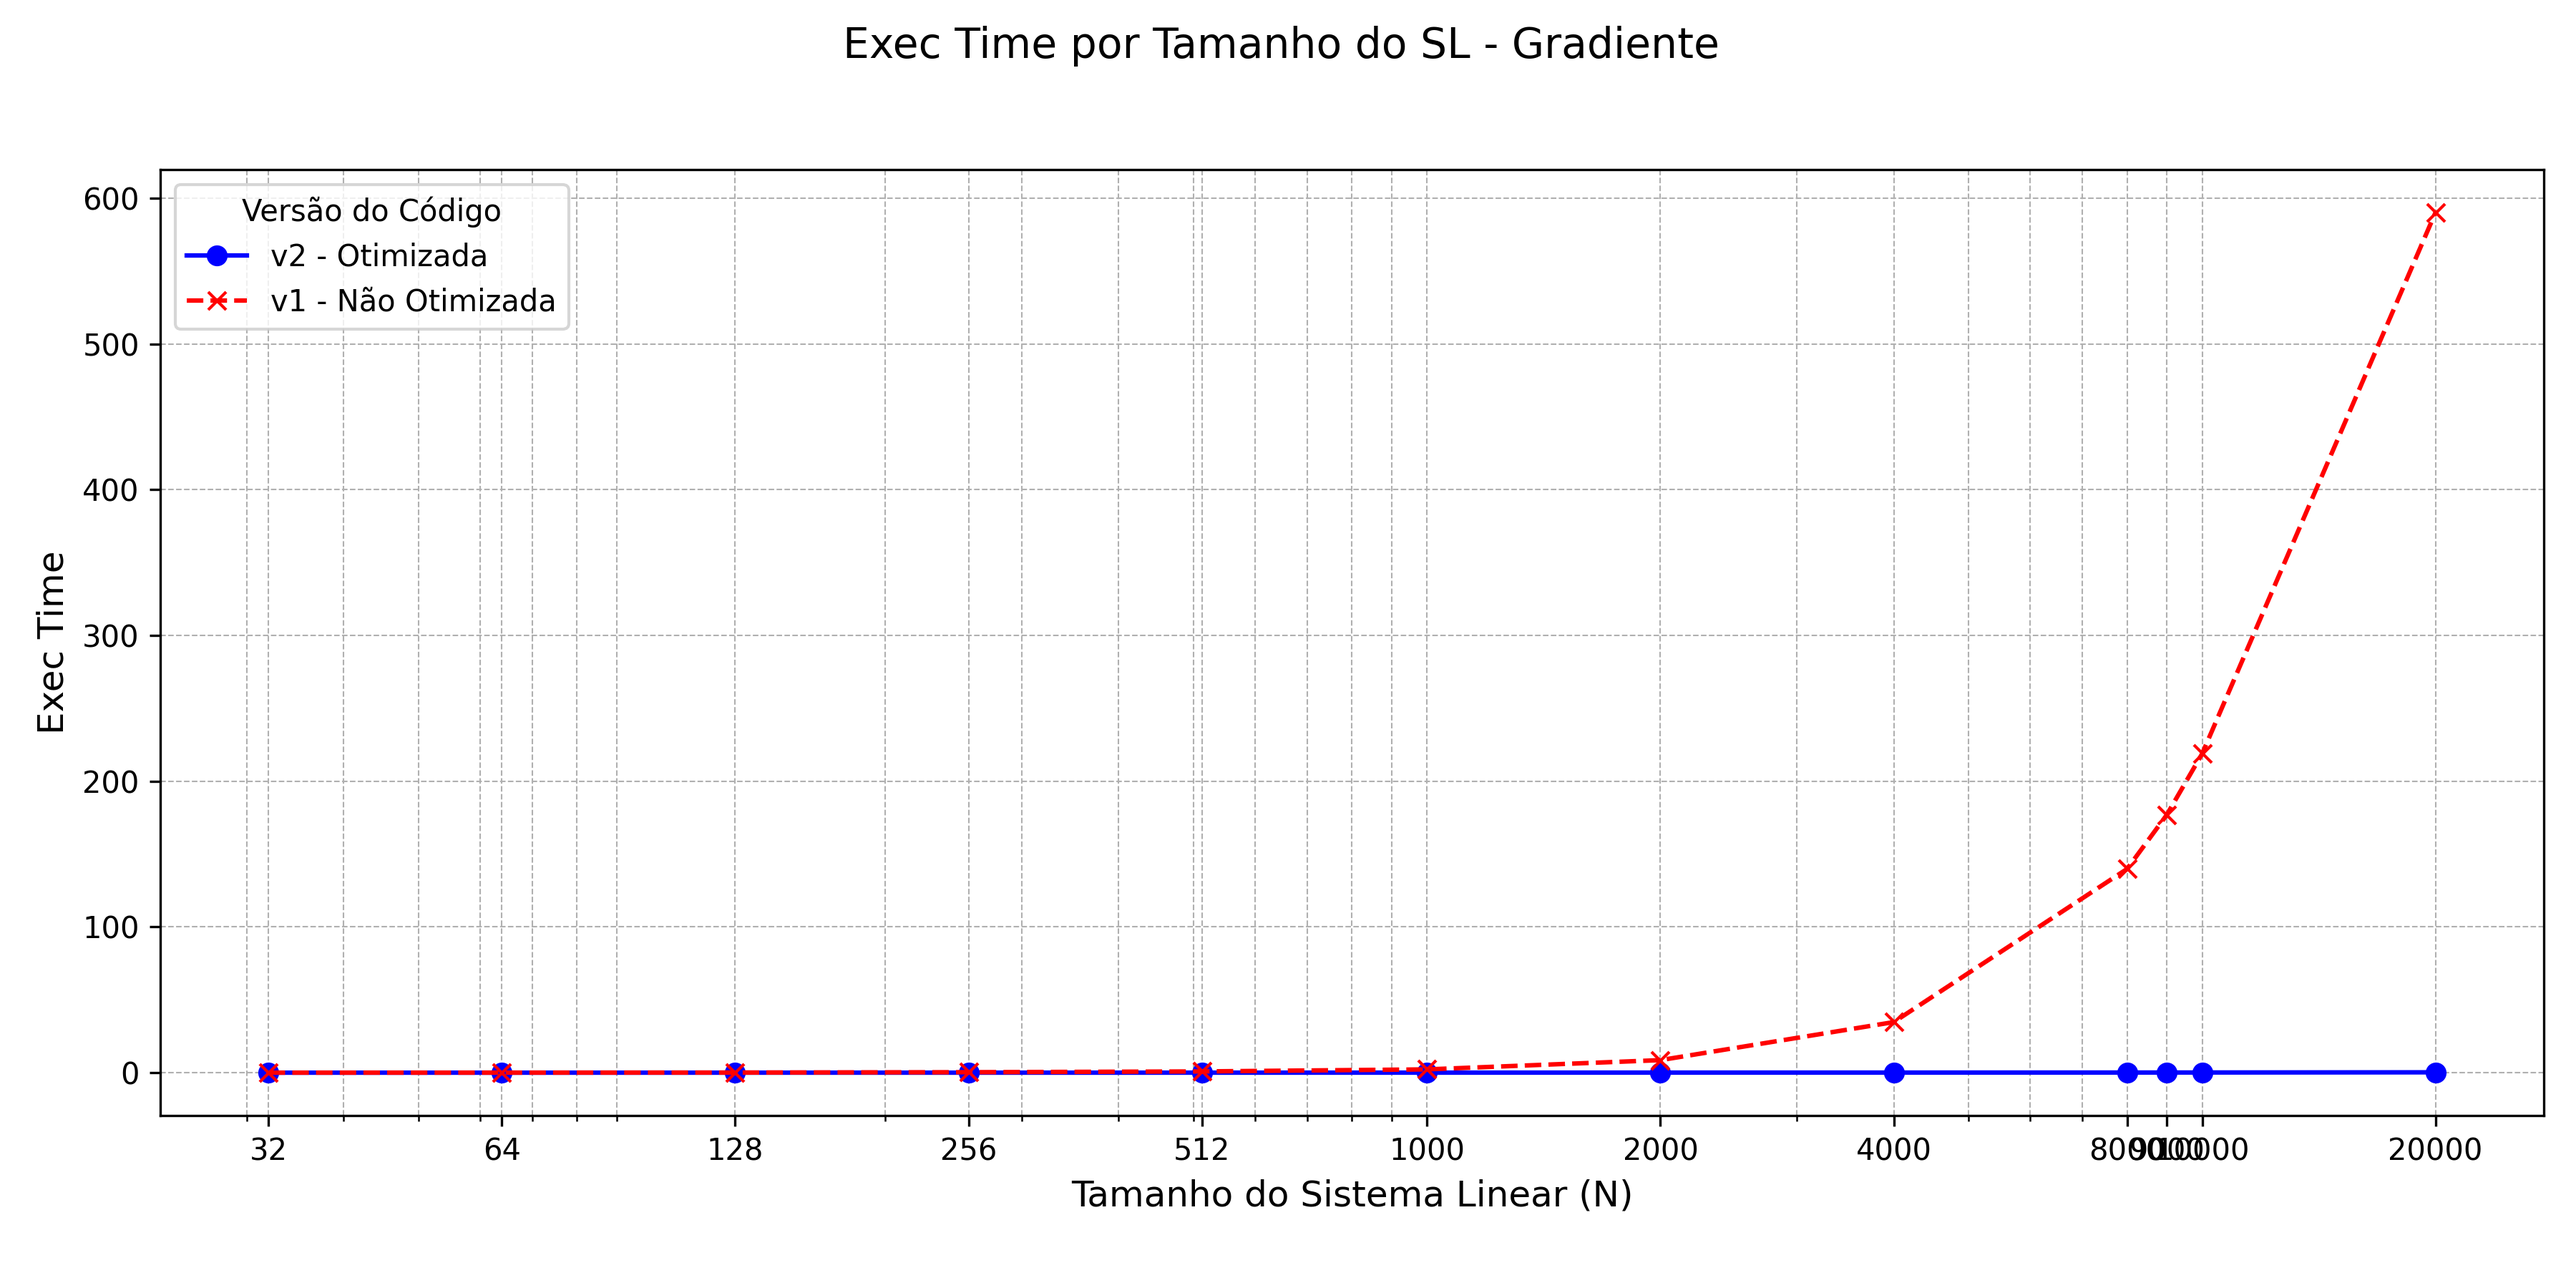
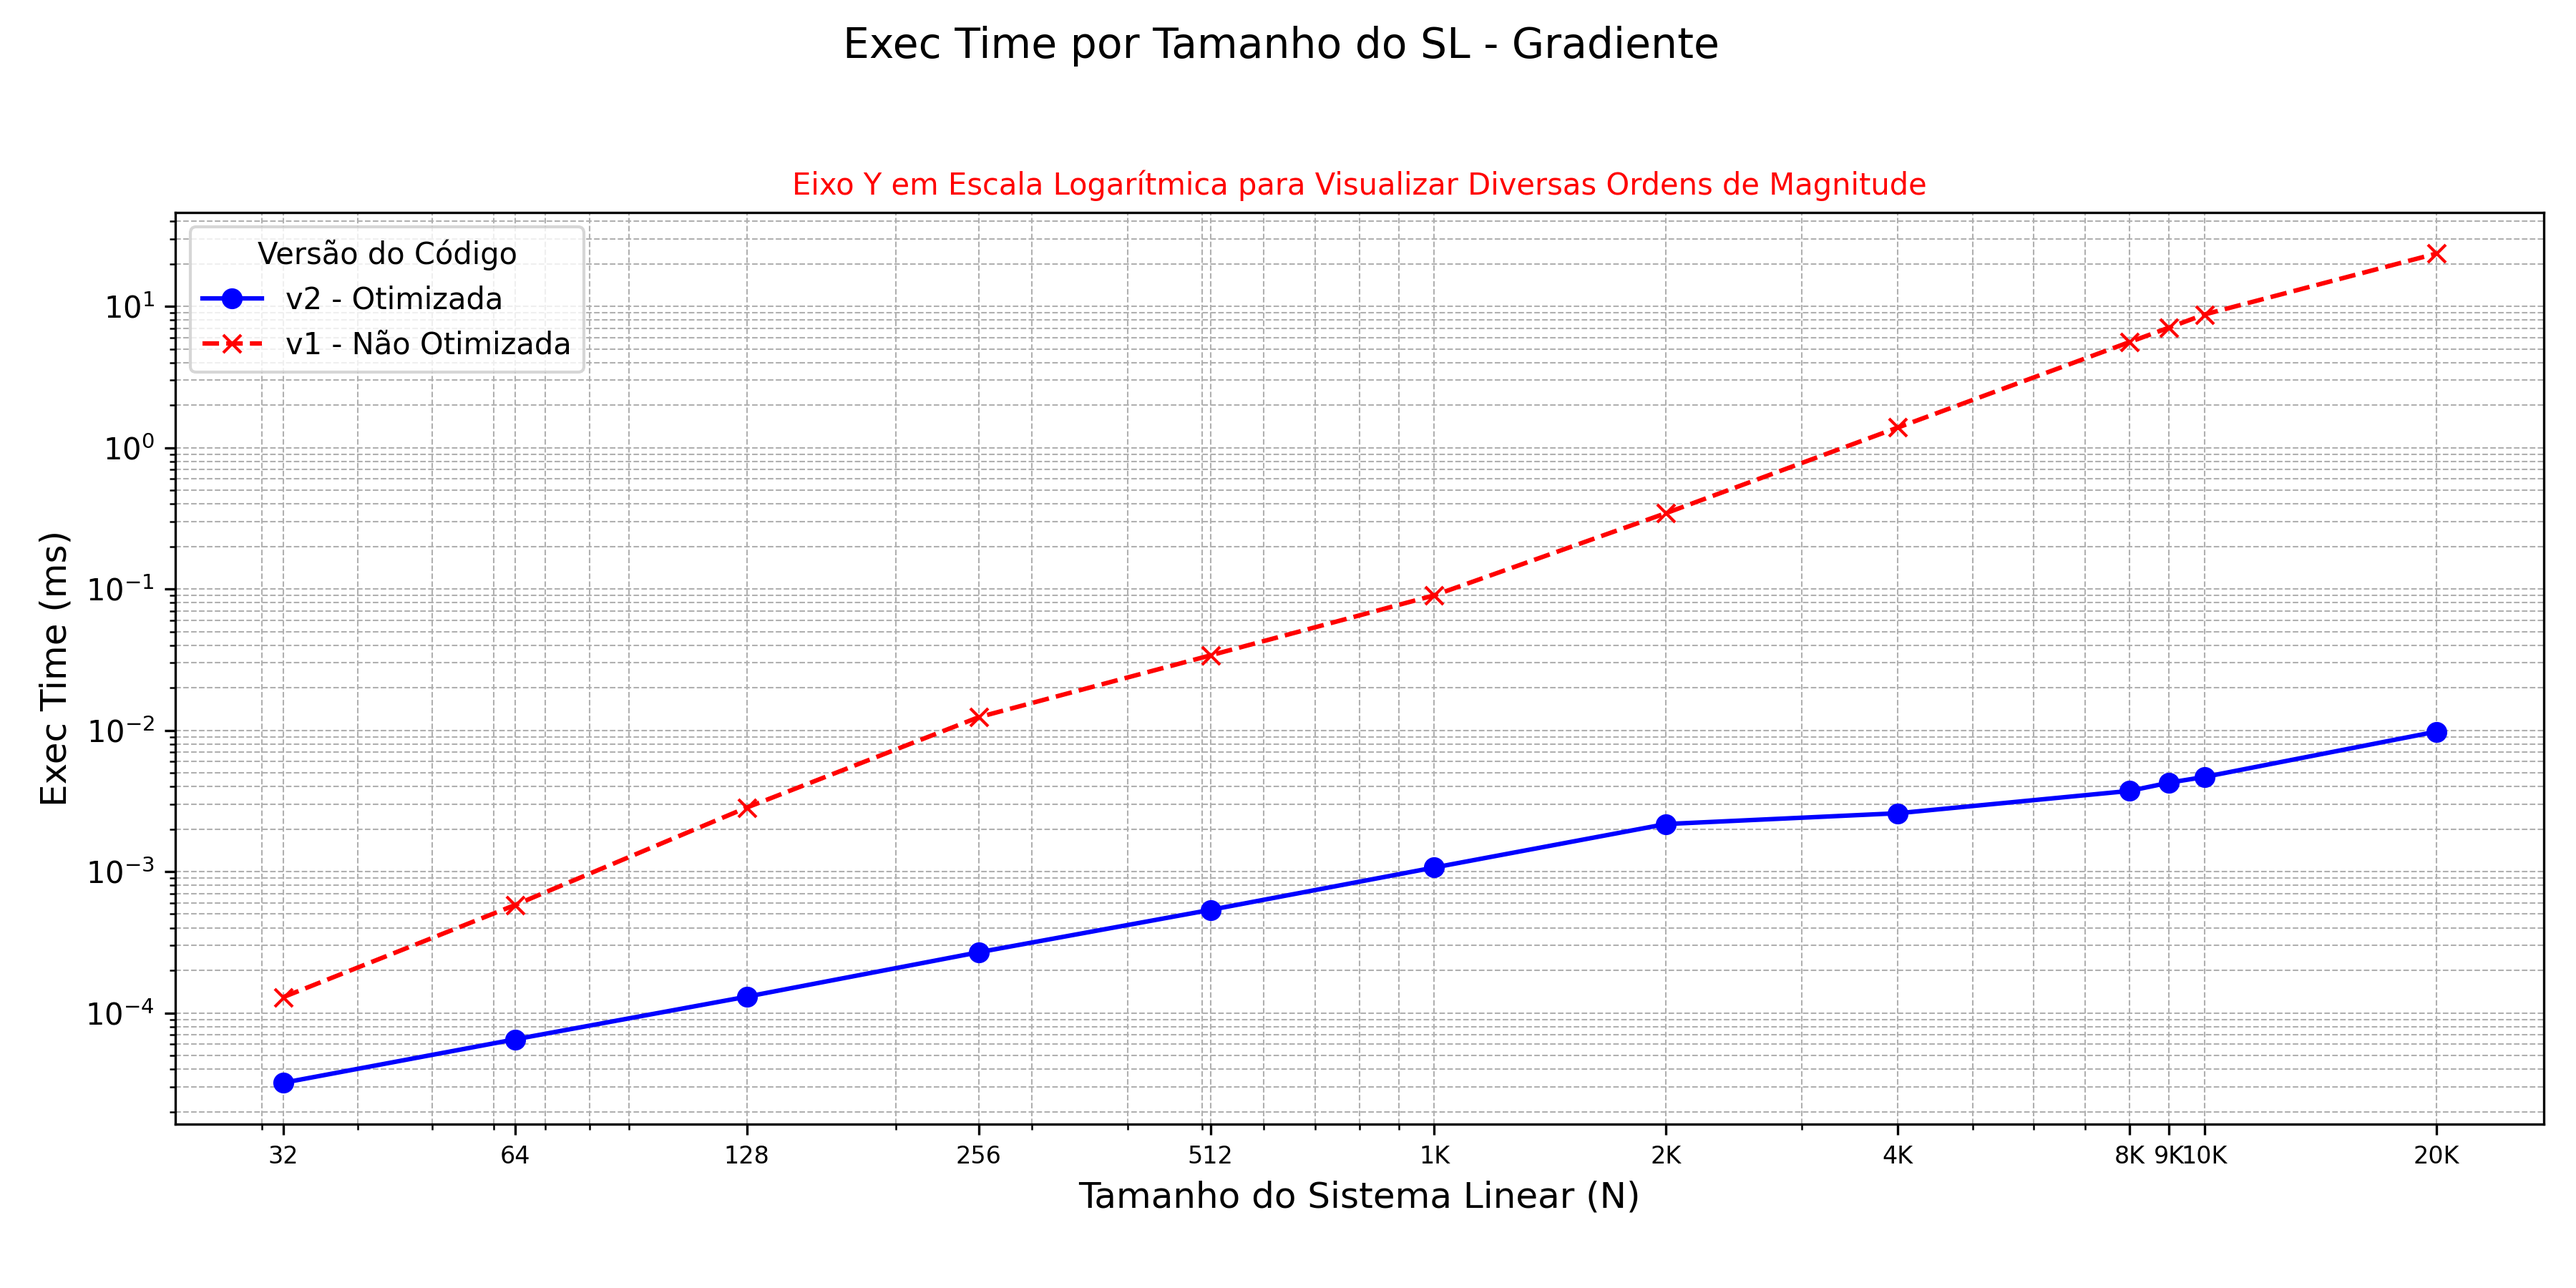
Graphs and plot

Changed region(s): [[0.0, 0.1244, 0.9956, 0.9333]]

diff --git a/Trab2/plot.py b/Trab2/plot.py
@@ -1,14 +1,12 @@
-# Seu código de importação e carregamento de dados
-# ... (deve permanecer como está)
-
-import matplotlib.pyplot as plt
-import numpy as np # Necessário para a escala logarítmica
 import os
 import csv
+import matplotlib.pyplot as plt
+import numpy as np
 
 data_dir = "./data"
 optimized = "Optimized"
 nonOptimized = "NonOptimized"
+os.makedirs("graphs", exist_ok=True)
 
 allData = {
     "gradient": {
@@ -19,6 +17,17 @@ allData = {
         "optimized": {},
         "nonOptimized": {}
     }
+}
+
+n_vals_str = ["32", "64", "128", "256", "512", "1000", "2000", "4000", "8000", "9000", "10000", "20000"]
+
+n_vals = np.array(["32", "64", "128", "256", "512", "1K", "2K", "4K", "8K", "9K", "10K", "20K"])
+
+n_vals_int = np.array([int(n) for n in n_vals_str])
+
+OP_MAP = {
+    "gradient": {"id": "op1", "label": "Gradiente", "color_opt": "blue", "color_nonopt": "red"},
+    "residue": {"id": "op2", "label": "Resíduo", "color_opt": "green", "color_nonopt": "orange"}
 }
 
 metrics = []
@@ -47,48 +56,58 @@ for file in os.listdir(f"{data_dir}/{optimized}"):
                 allData["gradient"]["nonOptimized"][filename][N] = float(lines[1])
                 allData["residue"]["nonOptimized"][filename][N] = float(lines[2])
 
-n_vals_str = ["32", "64", "128", "256", "512", "1000", "2000", "4000", "8000", "9000", "10000", "20000"]
-n_vals = np.array([int(n) for n in n_vals_str])
-
-OP_MAP = {
-    "gradient": {"id": "op1", "label": "Gradiente", "color_opt": "blue", "color_nonopt": "red"},
-    "residue": {"id": "op2", "label": "Resíduo", "color_opt": "green", "color_nonopt": "orange"}
-}
-
 for operation, op_info in OP_MAP.items():
+    div_factor = 1
+
+    if operation == "gradient":
+        div_factor = 25
 
     for metric in metrics:
         metric_title = str.title(metric[0:-4].replace("_", " "))
 
-        values_opt = [allData[operation]["optimized"][metric][n] for n in n_vals_str]
-        values_nonopt = [allData[operation]["nonOptimized"][metric][n] for n in n_vals_str]
+        y_label = metric_title
+
+        if metric_title == "Exec Time":
+            y_label += " (ms)"
+        elif metric_title == "L2Cache":
+            y_label += " Miss Ratio"
+        elif metric_title == "L3":
+            y_label += " MBytes/s"
+        else:
+            y_label += "/s"
+
+        raw_values_opt    = [allData[operation]["optimized"]   [metric][n] / div_factor for n in n_vals_str]
+        raw_values_nonopt = [allData[operation]["nonOptimized"][metric][n] / div_factor for n in n_vals_str]
 
         fig, axs = plt.subplots(1, 1, figsize=(12, 6))
 
         fig.suptitle(f"{metric_title} por Tamanho do SL - {op_info['label']} ", fontsize=14)
 
-        axs.plot(n_vals, values_opt,
+        axs.plot(n_vals_int, raw_values_opt,
                  marker='o', linestyle='-', color=op_info['color_opt'],
                  label ='v2 - Otimizada')
 
-        axs.plot(n_vals, values_nonopt,
+        axs.plot(n_vals_int, raw_values_nonopt,
                  marker='x', linestyle='--', color=op_info['color_nonopt'],
                  label ='v1 - Não Otimizada')
 
+        axs.set_ylabel(y_label, fontsize=12)
+
+        if metric_title == "Exec Time":
+            axs.set_yscale('log')
+            axs.set_title("Eixo Y em Escala Logarítmica para Visualizar Diversas Ordens de Magnitude", fontsize=10, color='red')
+
         axs.set_xlabel('Tamanho do Sistema Linear (N)', fontsize=12)
-        axs.set_ylabel(metric_title, fontsize=12)
-
         axs.set_xscale('log')
+        axs.set_xticks(n_vals_int)
+        axs.set_xticklabels(n_vals, fontsize=8)
 
-        axs.set_xticks(n_vals)
-        axs.set_xticklabels(n_vals)
-
-        axs.grid(True, which="both", ls="--", linewidth=0.5) # Adiciona um grid
+        axs.grid(True, which="both", ls="--", linewidth=0.5)
         axs.legend(title="Versão do Código")
 
-        plt.tight_layout(rect=[0, 0.03, 1, 0.95]) # Ajusta para o título
-        filename = f"{op_info['id']}_{operation}_{metric_title.replace(' ', '_')}.png"
+        plt.tight_layout(rect=(0.0, 0.03, 1.0, 0.95))
 
+        filename = f"{op_info['id']}_{operation}_{metric_title.replace(' ', '_')}.png"
         plt.savefig(f"graphs/{filename}", dpi=300)
 
         plt.close(fig)
